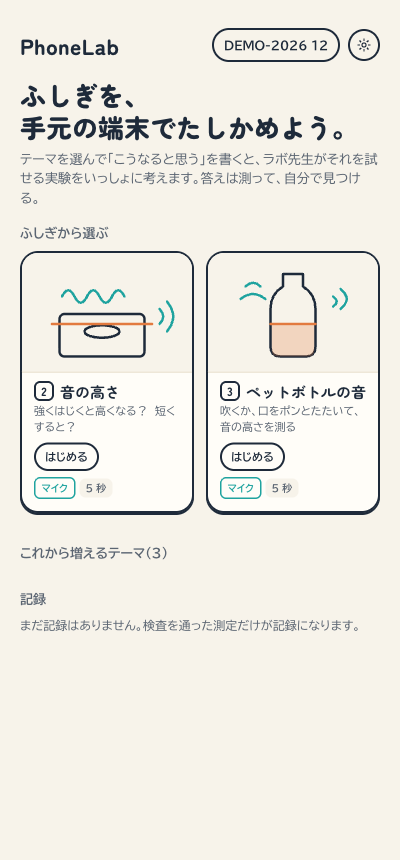
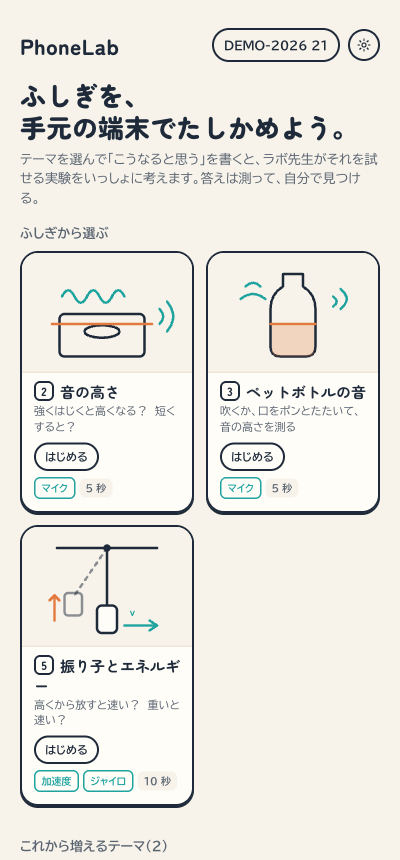
docs(zenn): 1 章を振り子の重さの場面に（画面は加速度とジャイロの合成信号を本物の解析に流して撮影）。トップは 3 テーマに

diff --git a/docs/zenn-article.md b/docs/zenn-article.md
@@ -8,27 +8,27 @@ published: false
 
 > 第 5 回 Agentic AI Hackathon with Google Cloud の提出作品です。
 > 数字はすべて、リポジトリに保存した評価・ベンチマークの結果から引いています。実機での測定精度は、この記事の時点では未検証です（後述）。
-> 画面は、本番と同じ設定（Gemini 3.5 Flash-Lite・Model Armor）で手元に立てたものです。ラボ先生の文は Gemini の実際の出力です。マイクには、合成した輪ゴムの音（220 Hz、4 回はじく）を流しました。
+> 画面は、本番と同じ設定（Gemini 3.5 Flash-Lite・Model Armor）で手元に立てたものです。ラボ先生の文は Gemini の実際の出力です。測定の画面は、本物の解析と検査に、合成した信号（振り子は加速度とジャイロ、輪ゴムは音）を流して撮りました。
 
 ## 1. ある理科の授業の 1 場面
 
-中学 1 年のゆいさんは、学校の iPad で PhoneLab を開きます。トップに並ぶテーマから「音の高さ」を選ぶと、まず「ティッシュの空き箱に輪ゴムをかけて、はじいてみよう」と出ます。弱く、強く、真ん中を押さえて。耳で違いを確かめたあと、画面が問いかけます。
+中学 3 年のゆいさんは、学校の iPad で PhoneLab を開きます。トップに並ぶテーマから「振り子とエネルギー」を選ぶと、まず「糸（80 cm）の先に袋を結び、消しゴムを入れて、そっと放してみよう」と出ます。高く持ち上げたり、低くしたり。目で速さを見くらべたあと、画面が問いかけます。
 
-> はじいてみて、どう思った？　強さや長さを変えたら、音の高さはどうなりそう？
+> 放してみて、どう思った？　高さや重さを変えたら、いちばん下を通る速さはどうなりそう？
 
-ゆいさんは「強くはじくと高くなると思う」と書きました。理由がありません。すると AI の「ラボ先生」は、実験を出す前に一度だけ「どうしてそう思ったの？」と聞き返します。
+ゆいさんは「重いほうが、いちばん下で速くなると思う」と書きました。理由がありません。すると AI の「ラボ先生」は、実験を出す前に一度だけ「どうしてそう思ったの？」と聞き返します。
 
-![予想の画面。ラボ先生が「どうしてそう思ったの？」と聞き返している](./zenn-images/02-question-back.png =320x)
+![予想の画面。ラボ先生が「どうしてそう思ったの？」と聞き返している](./zenn-images/p02-question-back.png =320x)
 *理由の無い予想には、実験を出す前に一度だけ聞き返す*
 
-「強くはじくと速く震えそうだから」と書き足すと、ラボ先生は**答えを言わずに**、その予想を確かめられる実験を選びます。輪ゴムの長さと張りはそのまま、**はじく強さだけ**を変える。画面には、変えるもの・一定にするもの・使うセンサー（マイクを 5 秒だけ）と、ラボ先生の判断の跡（何を読み、何を選び、チェックが何を見たか）が出ます。生徒はそれを見て「この実験でやってみる」を押し、センサーを使うのを自分で許可してから、弱く・強くの 2 条件を測ります。
+「重いと勢いがつきそうだから」と書き足すと、ラボ先生は**答えを言わずに**、その予想を確かめられる実験を選びます。放す高さ（15 cm）と糸の長さはそのまま、**重さだけ**を変える（消しゴムを 1 個足す）。画面には、変えるもの・一定にするもの・使うセンサー（加速度とジャイロを 10 秒だけ）と、ラボ先生の判断の跡（何を読み、何を選び、チェックが何を見たか）が出ます。ゆいさんはそれを見て「この実験でやってみる」を押し、センサーを使うのを自分で許可してから、スマホを袋に入れて測ります。
 
-![計画の画面。「同じ輪ゴムで、はじく強さだけ変える」と、判断の跡 4 段](./zenn-images/03-plan.png =320x)
+![計画の画面。「同じ高さから、重さだけ増やして放す」と、判断の跡 4 段](./zenn-images/p03-plan.png =320x)
 *ラボ先生はカタログの実験から選ぶだけで、答えは知らない。判断の跡は開いて見られる*
 
-測った結果は 220 Hz と 222 Hz。差の 2 Hz はずれの目安（7 Hz）より小さく、音の高さは変わりませんでした。予想と違います。結果の画面には、変わったのは音の大きさ（+12 dB）だったことも並びます。ラボ先生は次の実験より先に、「なぜそうなったか、自分の言葉で書いてみよう」と促します。説明が聞けるのは、自分の考えを書いたあとです。
+結果は、消しゴム 1 個でも 2 個でも、最大の速さ（いちばん下を通るとき）は秒速 1.72 m。差はずれの目安（0.15 m/s）より小さく、速さは変わりませんでした。予想と違います。ラボ先生は次の実験より先に、「なぜそうなったか、自分の言葉で書いてみよう」と促します。説明が聞けるのは、自分の考えを書いたあとです。
 
-![結果の画面。予想とちがった、音の大きさは +12 dB、先にふり返り](./zenn-images/05-result.png =320x)
+![結果の画面。重さを変えても、いちばん下を通る速さは変わらなかった。先にふり返り](./zenn-images/p05-result.png =320x)
 *食い違ったときは、測定が検査を通ったことを添え、次の実験より先にふり返りを促す*
 
 これが PhoneLab です。**端末のセンサーを実験器具にし、AI は答えではなく「確かめ方」を選ぶ。** 判断の結論は測定が出し、理由を考えるのは生徒です。
@@ -46,8 +46,8 @@ published: false
 ![体験の流れ。1 予想と理由を書く、2 実験を選ぶ、3 センサーを許可、4 測って検査、5 予想と比べる、6 次の一手。理由が無ければ聞き返す、検査に落ちたら保留、食い違ったら先にふり返り](./zenn-images/10-flow.png)
 *色は、だれが決めるか。オレンジは生徒、緑はラボ先生（Gemini）、紺は決まったコード*
 
-![トップ画面。音の高さ・ペットボトルの音のテーマ](./zenn-images/01-home.png =320x)
-*トップ。加速度センサーの無い端末（この画面は PC）では、振り子のテーマは折りたたみの「これから増えるテーマ」に「この端末では不可」の印で入る*
+![トップ画面。音の高さ・ペットボトルの音・振り子とエネルギーのテーマ](./zenn-images/01-home.png =320x)
+*トップ。いま中学で測れる 3 テーマ。加速度センサーの無い端末では、振り子のテーマは「この端末では不可」の印で下に回る*
 
 いま中学向けに動くのは 3 テーマ・7 実験です。
 
@@ -57,14 +57,14 @@ published: false
 | ペットボトルの音 | 水の量 | マイク |
 | 振り子とエネルギー | 放す高さ／重さ／糸の長さ | 加速度・ジャイロ |
 
-測定が終わると、端末の中で値を計算し、検査（音の長さ・雑音・音割れ・二つの計算の一致・途中で高さが変わらないか）を通ったものだけが結果になります。送るのは約 285 バイトの数値だけで、波形は端末から出しません。
+測定が終わると、端末の中で値を計算し、検査を通ったものだけが結果になります。振り子なら、読み取りの速さ・途切れ・振りの強さ（飽和）・動き出し・二つのセンサーの一致。音なら、音の長さ・雑音・音割れ・二つの計算の一致・途中で高さが変わらないか。送るのは数百バイトの数値だけで、加速度や音声の生データは端末から出しません。
 
-![検査の画面。220 Hz、二つの計算が一致、雑音より 30 dB 大きい](./zenn-images/04-checks.png =320x)
+![検査の画面。ジャイロと加速度がどちらも 1.72 m/s で一致、1.6 秒で動き出した](./zenn-images/p04-checks.png =320x)
 *検査はラボ先生ではなく、決まったコードがする*
 
 ふり返りでは、ラボ先生と話せます。説明をすぐには言わず、生徒の考えを受けて問い返します。
 
-![ラボ先生との会話。答えを言わずに「どうして強くはじいたのに、震える速さは変わらなかったのだと思いますか？」と問い返す](./zenn-images/06-chat.png =320x)
+![ラボ先生との会話。答えを言わずに「重さや動かしにくさに関係していそうな身近な現象には、どんなものがあるでしょうか？」と問い返す](./zenn-images/p06-chat.png =320x)
 *自分の考えを書いたので「説明を聞く」が出た。書くまでは出ない*
 
 先生は別の画面（PC）で、学級の予想の分布、保留中の生徒、ラボ先生の見立て（共通するつまずきと、見に行く順番）を見て、必要なら**全端末の測定を 1 タップで止め**られます。
@@ -77,7 +77,7 @@ published: false
 PhoneLab の流れは、理科教育の研究で使われてきた **予想→観察→説明（POE: Predict–Observe–Explain、White & Gunstone 1992）** に沿っています。学習指導要領解説の「見通しをもって観察・実験を行う」（＝どんな結果になるかを予想させる）とも同じ考え方です。
 
 - **予想と理由を書くまで進めない**: 先に自分の考えを外に出させるのが POE の出発点です。予想が当たったときも、理由を書くよう促します（自分で説明することが理解を深めるという自己説明の研究: Chi ら 1994）。
-- **狙う思い込みを決めている**: 音では「強くはじくと高くなる」のような、音の大きさと高さの混同です。学習指導要領解説も、強さや長さを変えて「大きさは振幅、高さは振動数」と結びつけるよう求めています。結果の画面には、高さと一緒に**音の大きさ（dB）**も並べます。
+- **狙う思い込みを決めている**: 振り子では「重いほうが速い」、音では「強くはじくと高くなる」のような、音の大きさと高さの混同です。学習指導要領解説も、強さや長さを変えて「大きさは振幅、高さは振動数」と結びつけるよう求めています。結果の画面には、高さと一緒に**音の大きさ（dB）**も並べます。
 - **食い違いを「測り方のせい」にさせない**: 予想に反するデータを信じられるかどうかで、考えが変わるかが決まると言われます（Chinn & Brewer 1993）。食い違ったときは「この測定は雑音・音割れ・二つの計算の一致の検査を通っています」と添えます。
 - **条件をそろえる理由をはっきり言う**: 「変えるのは 1 つだけ。いくつも変えるとどれが効いたか分からない」。問いかけだけより、はっきり教えるほうが身につくという研究があります（Chen & Klahr 1999）。
 - **放任ではなく、導く探究**: 実験はカタログから AI が選び、説明は生徒が考えたあとに出します。放任の発見学習は直接教えるより劣り、支援つきの発見学習は優るというメタ分析があります（Alfieri ら 2011）。
